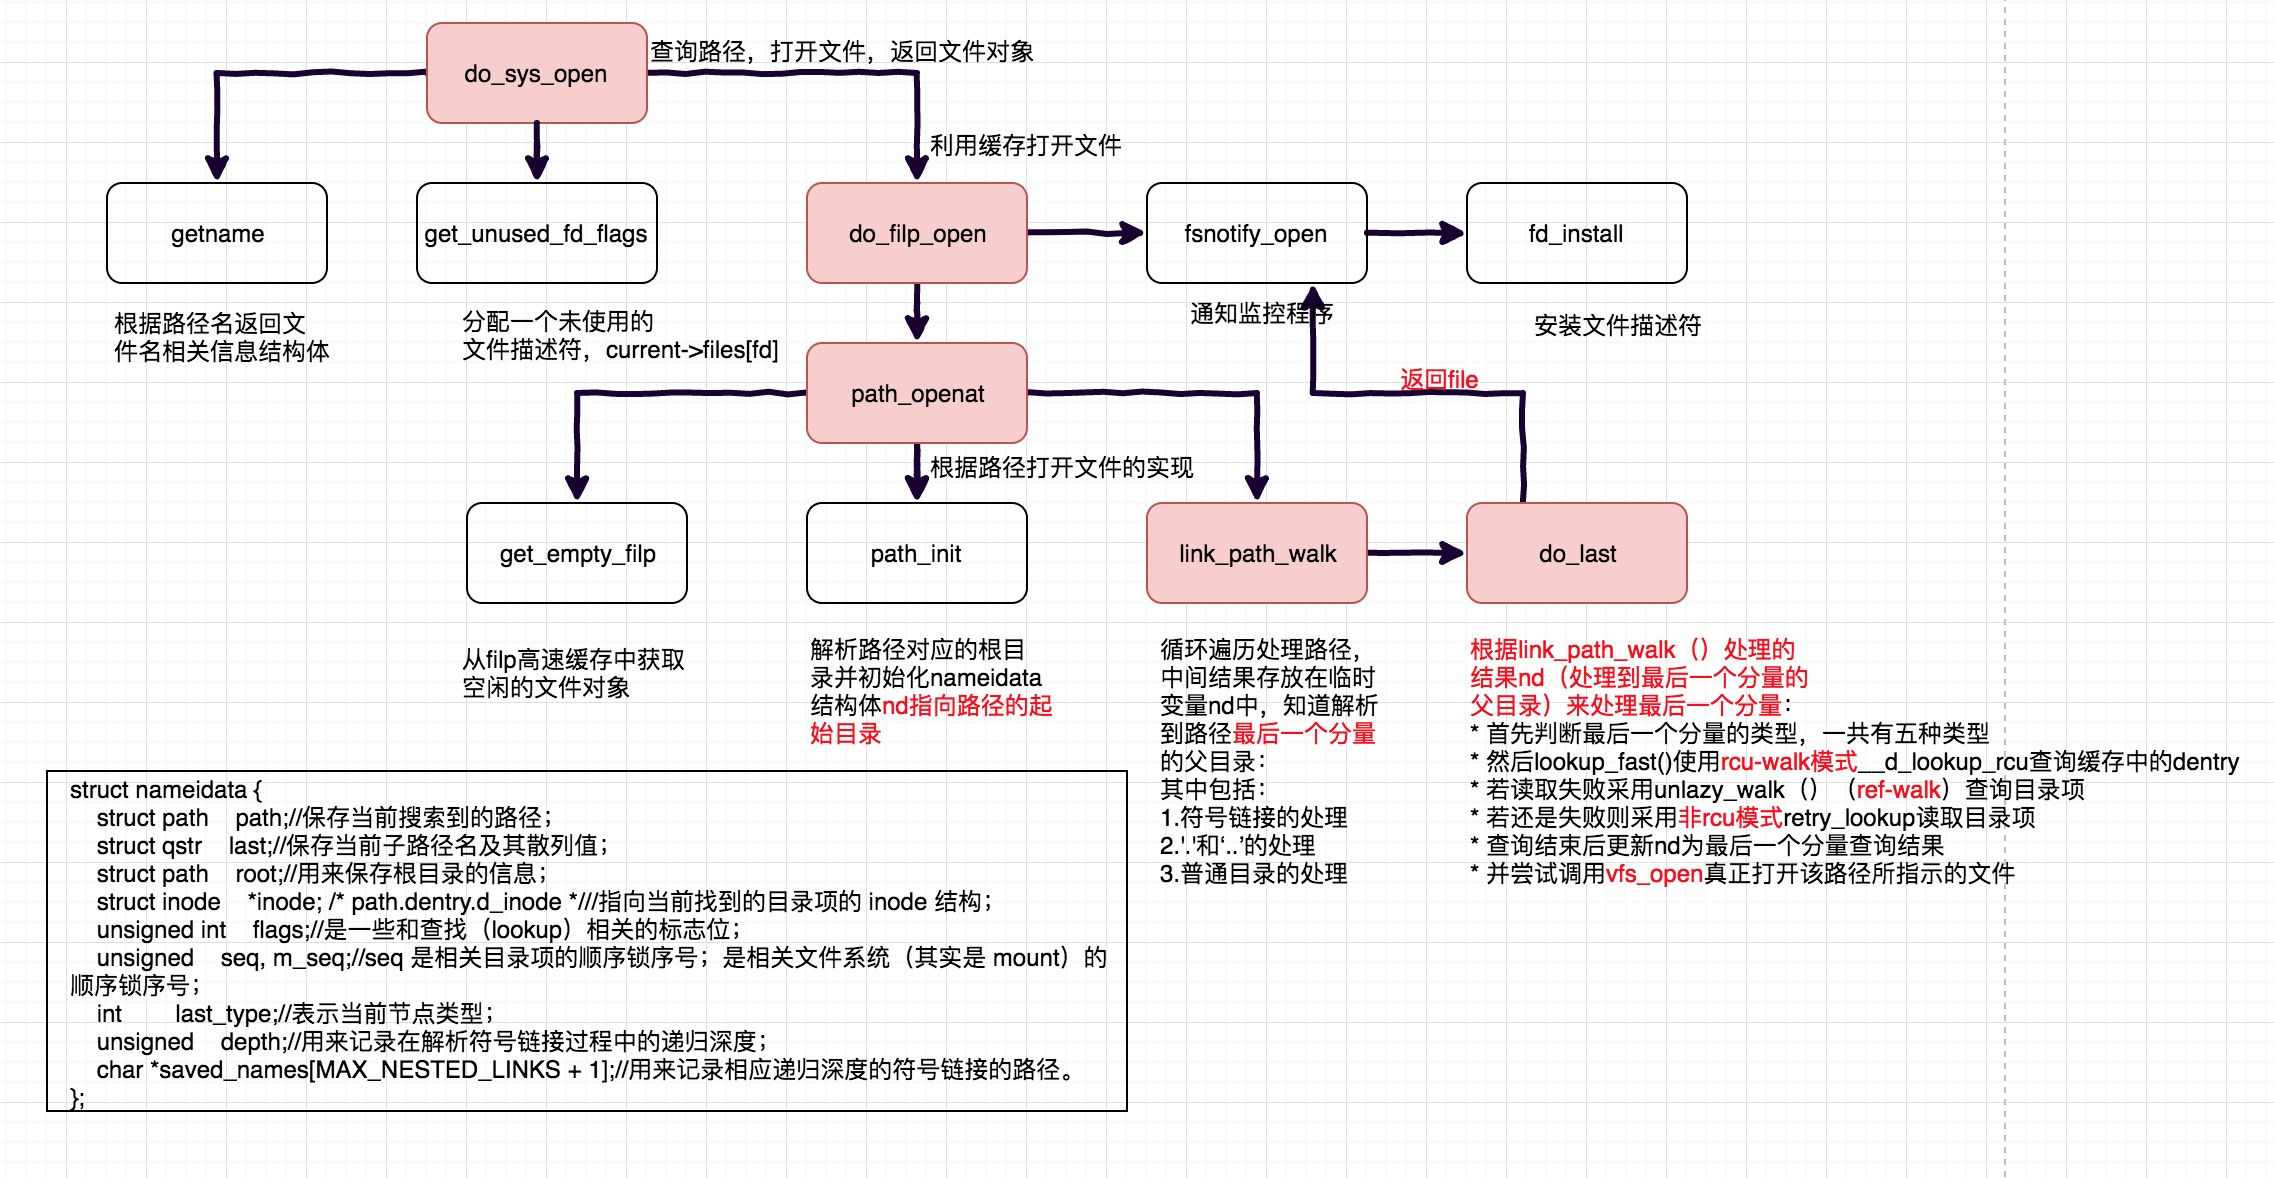
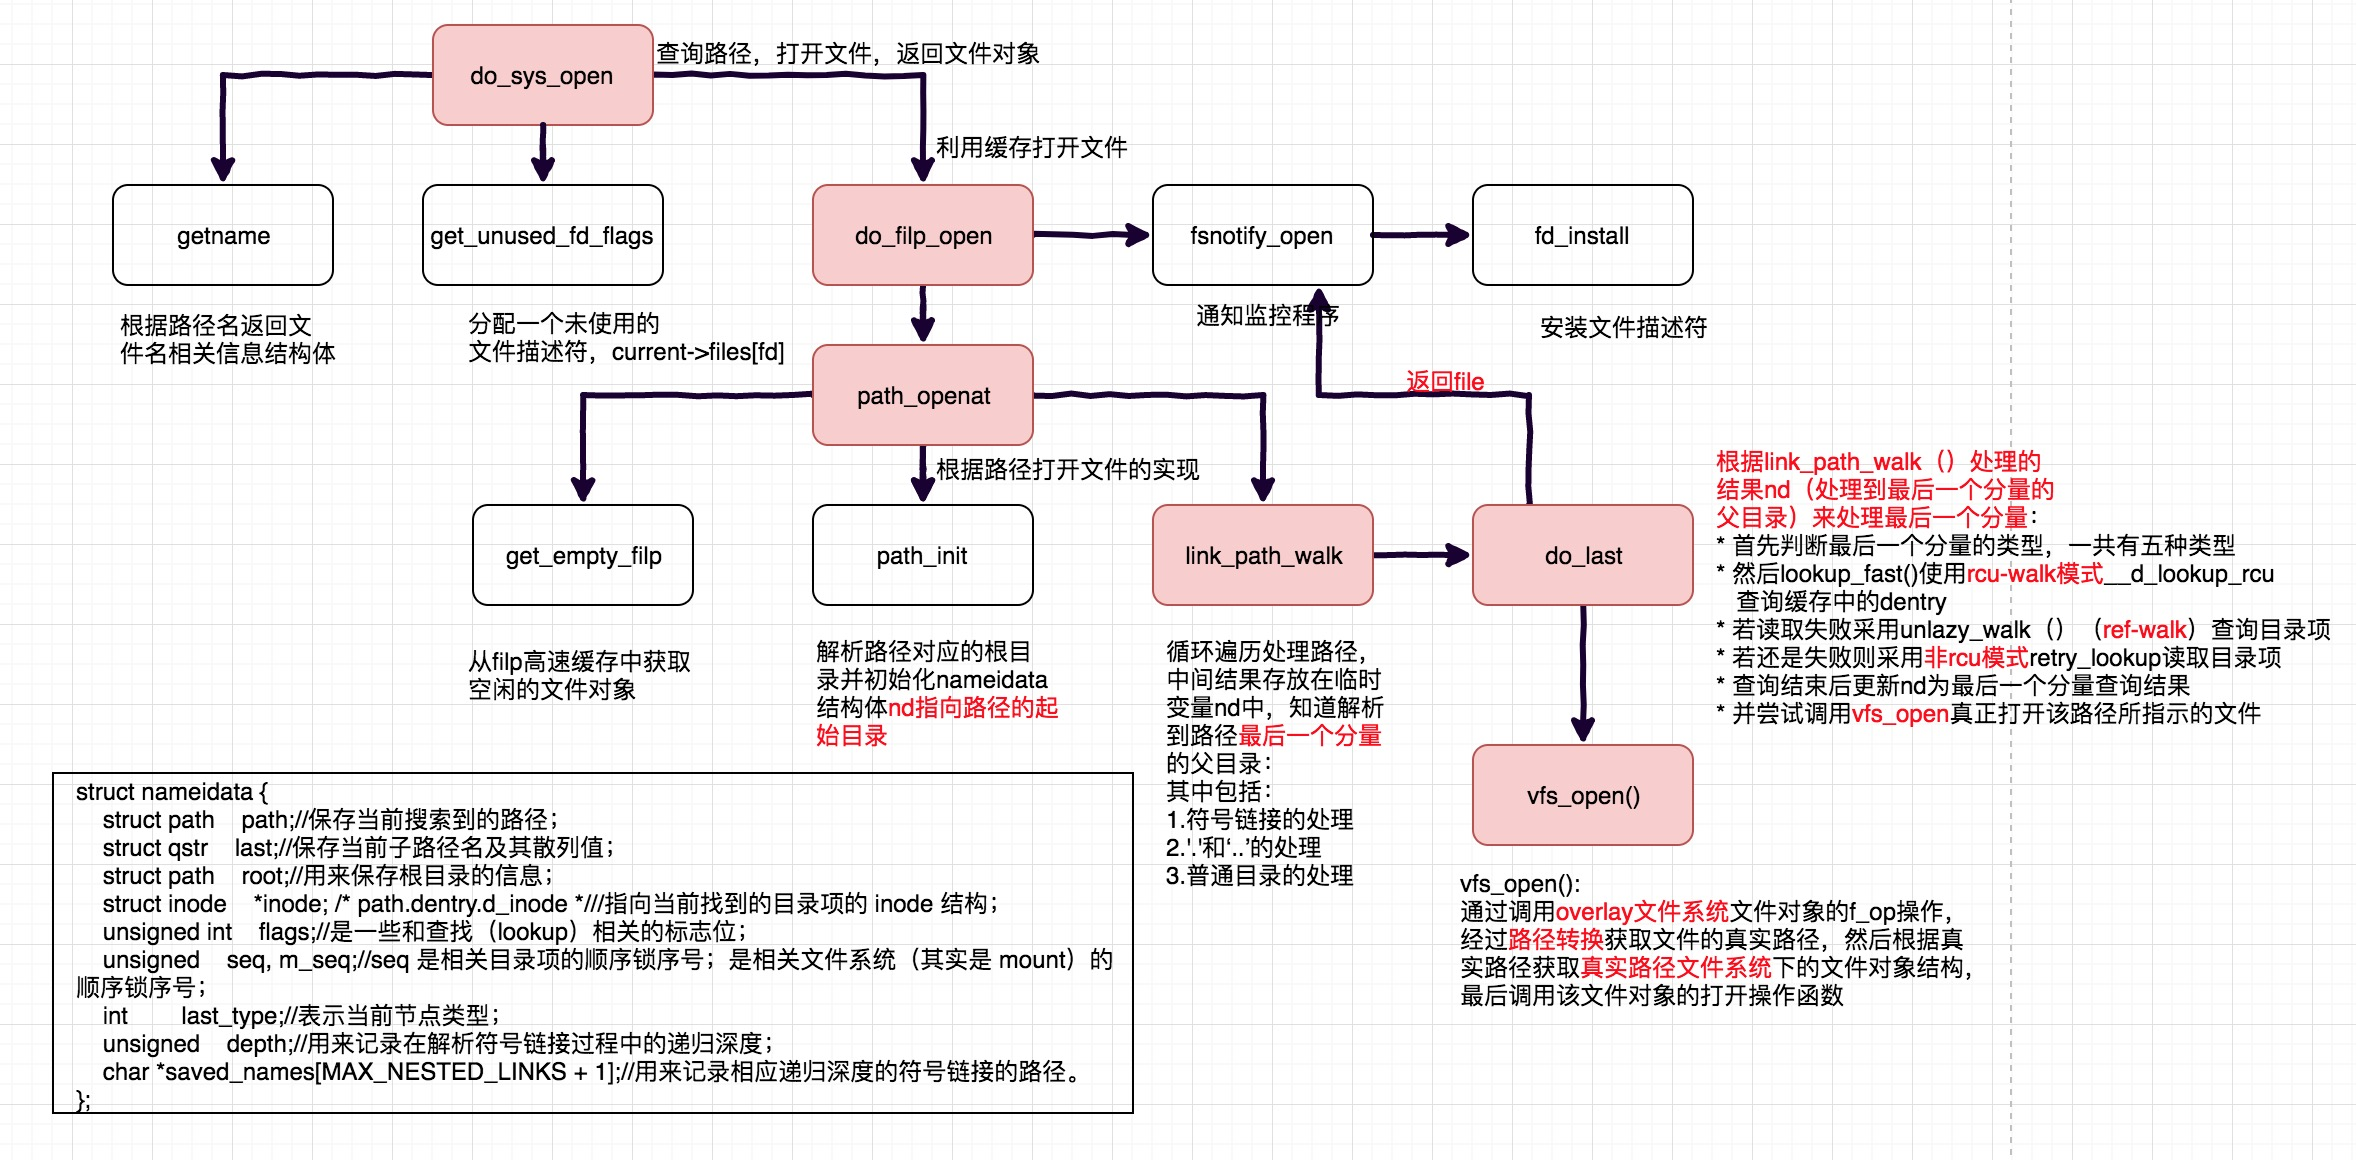
open directory

Changed region(s): [[0.0, 0.0, 0.9991, 0.9621], [0.4683, 0.869, 0.4996, 0.9]]

diff --git a/_posts/2018-01-03-内核overlay--目录搜索之打开文件.md b/_posts/2018-01-03-内核overlay--目录搜索之打开文件.md
@@ -309,7 +309,7 @@ retry_lookup:
 	BUG_ON(nd->flags & LOOKUP_RCU);
 	seq = 0;	/* out of RCU mode, so the value doesn't matter */
 	if (unlikely(d_is_negative(path.dentry))) {
-		path_to_nameidata(&path, nd);//清楚nd->mnt和nd->path.dentry 原有结构，设置与path一致
+		path_to_nameidata(&path, nd);//清除nd->mnt和nd->path.dentry 原有结构，设置与path一致
 		return -ENOENT;
 	}
 	inode = d_backing_inode(path.dentry);
@@ -421,5 +421,107 @@ stale_open:
 }
 
 {% endhighlight %}
+
+### vfs_open:
+
+到最后文件打开的最实质性操作在vfs_open函数内实现：
+vfs_open()->do_dentry_open():这两部调用实际上就是调用文件对象中的open操作，而文件对象中的open操作函数file->f_op由文件的索引节点inode->i_fop赋予。而索引节点的创建由ovl_new_inode（）来创建：
+{% highlight c%}
+struct inode *ovl_new_inode(struct super_block *sb, umode_t mode,
+			    struct ovl_entry *oe)
+{
+	struct inode *inode;
+
+	inode = new_inode(sb);//在超级块中分配一个索引节点对象
+	if (!inode)
+		return NULL;
+
+	inode->i_ino = get_next_ino();//分配索引号
+	inode->i_mode = mode;
+	inode->i_flags |= S_NOATIME | S_NOCMTIME;
+
+	mode &= S_IFMT;
+	switch (mode) {
+	case S_IFDIR:
+		inode->i_private = oe;
+		inode->i_op = &ovl_dir_inode_operations;
+		inode->i_fop = &ovl_dir_operations;//目录下一般文件的操作函数
+		break;
+
+	case S_IFLNK:
+		inode->i_op = &ovl_symlink_inode_operations;
+		break;
+
+	case S_IFREG:
+	case S_IFSOCK:
+	case S_IFBLK:
+	case S_IFCHR:
+	case S_IFIFO:
+		inode->i_op = &ovl_file_inode_operations;
+		break;
+
+	default:
+		WARN(1, "illegal file type: %i\n", mode);
+		iput(inode);
+		inode = NULL;
+	}
+
+	return inode;
+}
+{% endhighlight %}
+
+由ovl_new_inode函数可知，文件对象中的操作函数位于&ovl_dir_operations：
+{% highlight c%}
+const struct file_operations ovl_dir_operations = {
+	.read		= generic_read_dir,
+	.open		= ovl_dir_open,//打开文件函数
+	.iterate	= ovl_iterate,
+	.llseek		= ovl_dir_llseek,
+	.fsync		= ovl_dir_fsync,
+	.release	= ovl_dir_release,
+};
+{% endhighlight %}
+其中打开文件函数为ovl_dir_open():
+{% highlight c%}
+static int ovl_dir_open(struct inode *inode, struct file *file)
+{
+	struct path realpath;
+	struct file *realfile;
+	struct ovl_dir_file *od;
+	enum ovl_path_type type;
+
+	od = kzalloc(sizeof(struct ovl_dir_file), GFP_KERNEL);//分配一个ovl_dir_file，保存该文件在overlay中特有的文件信息
+	if (!od)
+		return -ENOMEM;
+
+	type = ovl_path_real(file->f_path.dentry, &realpath);//获取真实路径，根据路径的类型获取上层upper还是下层lower目录的路径
+	realfile = ovl_path_open(&realpath, file->f_flags);//根据文件的真实路径获取真实路径文件系统下的文件对象结构，再依据文件对象中的文件打开操作函数打开文件。
+	if (IS_ERR(realfile)) {
+		kfree(od);
+		return PTR_ERR(realfile);
+	}
+	od->realfile = realfile;
+	od->is_real = !OVL_TYPE_MERGE(type);
+	od->is_upper = OVL_TYPE_UPPER(type);
+	file->private_data = od;//使用文件对象中的private_data字段保存该文件在overlay文件系统中所特有的文件信息结构ovl_dir_file od
+
+	return 0;
+}
+//文件在overlay文件系统中所特有的文件信息结构ovl_dir_file
+struct ovl_dir_file {
+	bool is_real;
+	bool is_upper;
+	struct ovl_dir_cache *cache;
+	struct list_head *cursor;
+	struct file *realfile;
+	struct file *upperfile;
+};
+{% endhighlight %}
+
+### 总结
+
+* ls命令第一步通过路径查找，获取merged目录(OverlayFS中指定路径)的file文件对象。
+* 再根据文件对象结构中f_op操作函数来调用真实路径所在文件系统（ext4或其它）下的文件对象打开操作函数。
+* 最后得到文件在overlay文件系统特有的文件信息结构体ovl_dir_file并保存到overlay文件对象结构的private_data字段中。
 
 
